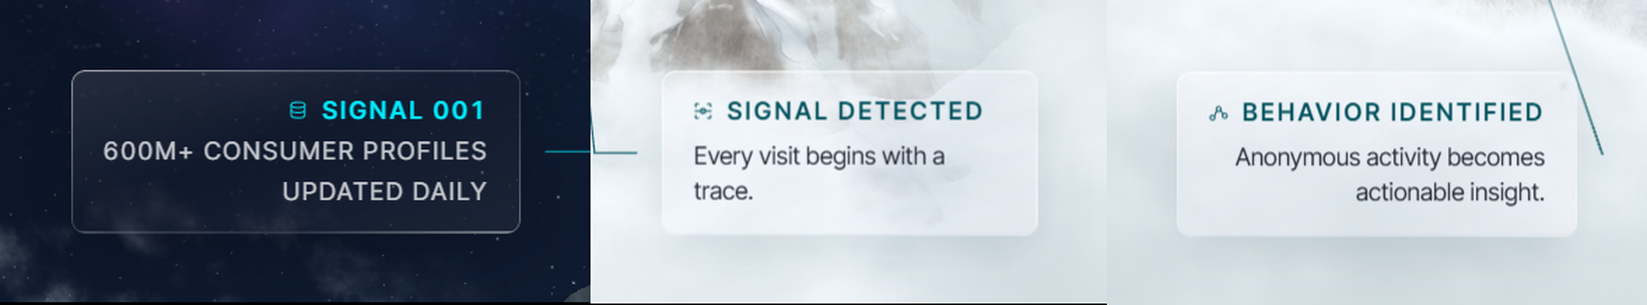
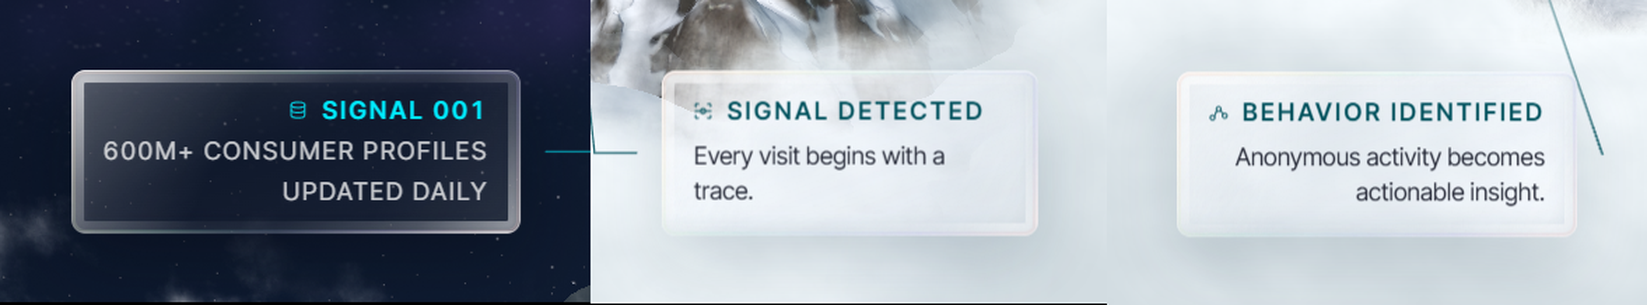
aan test 7: glass plates — thick lit bevel with chromatic fringe, inward lens refraction ×2.5, light angle follows the mouse

diff --git a/aan test 7/src/route.css b/aan test 7/src/route.css
@@ -92,21 +92,66 @@
 	background:
 		linear-gradient(160deg, rgba(255, 255, 255, 0.10), rgba(255, 255, 255, 0.02) 45%, rgba(255, 255, 255, 0.06)),
 		rgba(10, 16, 32, 0.34);
+	/* the slab's thickness: lit top-left edge, shaded bottom-right edge, a drop shadow under it */
 	box-shadow:
-		inset 0 1px 0 rgba(255, 255, 255, 0.22),
-		inset 0 -1px 0 rgba(255, 255, 255, 0.05),
-		0 10px 34px rgba(2, 6, 16, 0.28);
+		inset 0 1px 0 rgba(255, 255, 255, 0.30),
+		inset 2px 2px 10px rgba(255, 255, 255, 0.14),
+		inset -3px -4px 12px rgba(0, 10, 30, 0.28),
+		0 14px 40px rgba(2, 6, 16, 0.32);
 	-webkit-backdrop-filter: blur(6px) saturate(1.25);
 	backdrop-filter: blur(6px) saturate(1.25);
 	isolation: isolate;
 }
+/* the light: a specular sweep across the slab from the top-left (Figma Glass "light angle") */
+.callout__in--glass::after {
+	content: "";
+	position: absolute;
+	inset: 0;
+	border-radius: inherit;
+	background:
+		linear-gradient(calc(var(--glass-angle, 135deg) - 20deg), rgba(255, 255, 255, 0.22) 0%, rgba(255, 255, 255, 0.10) 18%, rgba(255, 255, 255, 0) 36%, rgba(255, 255, 255, 0) 70%, rgba(255, 255, 255, 0.07) 100%);
+	pointer-events: none;
+}
+.callout__in--glass > * { position: relative; z-index: 1; }
+/* the thick edge: a wide, soft ring lit from the top-left — the light bent through the bevel */
+.callout__in--glass .glass__bevel,
+.callout__in--glass .glass__fringe {
+	position: absolute;
+	inset: 0;
+	border-radius: inherit;
+	z-index: 0;
+	pointer-events: none;
+	-webkit-mask: linear-gradient(#000 0 0) content-box, linear-gradient(#000 0 0);
+	mask: linear-gradient(#000 0 0) content-box, linear-gradient(#000 0 0);
+	-webkit-mask-composite: xor;
+	mask-composite: exclude;
+}
+.callout__in--glass .glass__bevel {
+	padding: 7px;
+	background: linear-gradient(var(--glass-angle, 135deg),
+		rgba(255, 255, 255, 0.70) 0%, rgba(255, 255, 255, 0.28) 20%, rgba(255, 255, 255, 0.04) 46%,
+		rgba(255, 255, 255, 0.05) 60%, rgba(255, 255, 255, 0.22) 82%, rgba(255, 255, 255, 0.55) 100%);
+	filter: blur(2.5px);
+}
+/* dispersion on the bevel itself: a faint rainbow band just inside the rim */
+.callout__in--glass .glass__fringe {
+	padding: 2.5px;
+	background: linear-gradient(var(--glass-angle, 135deg),
+		rgba(255, 170, 140, 0.34) 0%, rgba(255, 225, 140, 0.26) 18%, rgba(150, 255, 200, 0.22) 38%,
+		rgba(130, 200, 255, 0.12) 55%, rgba(170, 150, 255, 0.24) 78%, rgba(255, 170, 150, 0.30) 100%);
+	filter: blur(0.8px);
+	mix-blend-mode: screen;
+	opacity: 0.8;
+}
+.callout--on-cloud .callout__in--glass .glass__bevel { opacity: 0.9; }
+.callout--on-cloud .callout__in--glass .glass__fringe { mix-blend-mode: normal; opacity: 0.5; }
 .callout__in--glass::before {
 	content: "";
 	position: absolute;
 	inset: 0;
 	border-radius: inherit;
 	padding: 1px;
-	background: linear-gradient(135deg, rgba(255, 255, 255, 0.55), rgba(255, 255, 255, 0.10) 35%, rgba(255, 255, 255, 0.04) 62%, rgba(255, 255, 255, 0.38));
+	background: linear-gradient(var(--glass-angle, 135deg), rgba(255, 255, 255, 0.85), rgba(255, 255, 255, 0.18) 30%, rgba(255, 255, 255, 0.06) 60%, rgba(255, 255, 255, 0.55));
 	-webkit-mask: linear-gradient(#000 0 0) content-box, linear-gradient(#000 0 0);
 	mask: linear-gradient(#000 0 0) content-box, linear-gradient(#000 0 0);
 	-webkit-mask-composite: xor;
@@ -119,9 +164,10 @@
 		linear-gradient(160deg, rgba(255, 255, 255, 0.34), rgba(255, 255, 255, 0.12) 50%, rgba(255, 255, 255, 0.22)),
 		rgba(220, 230, 245, 0.18);
 	box-shadow:
-		inset 0 1px 0 rgba(255, 255, 255, 0.6),
-		inset 0 -1px 0 rgba(0, 40, 60, 0.06),
-		0 10px 30px rgba(0, 30, 50, 0.12);
+		inset 0 1px 0 rgba(255, 255, 255, 0.7),
+		inset 2px 2px 10px rgba(255, 255, 255, 0.35),
+		inset -3px -4px 12px rgba(0, 40, 70, 0.14),
+		0 14px 36px rgba(0, 30, 50, 0.16);
 }
 
 .callout__k {

diff --git a/aan test 7/src/glass.js b/aan test 7/src/glass.js
@@ -6,8 +6,8 @@
  *
  * Refraction and dispersion are an SVG filter applied with `backdrop-filter: url(#…)`:
  * a canvas-drawn displacement map (R = x, G = y, 128 = none) of the plate's own size —
- * a bevel band along the rounded edge that pushes the sample point outward, strongest at
- * the edge, flat in the middle so the text sits on undistorted, merely frosted backdrop.
+ * a bevel band along the rounded edge that pulls the sample point inward (a convex lens),
+ * strongest at the edge, nearly flat in the middle so the text sits on a calm backdrop.
  * One filter per plate (its map is its size); `fit(w, h)` redraws it. Where url() is not
  * accepted in backdrop-filter (Safari, Firefox) the plain blur declaration before it wins.
  */
@@ -44,8 +44,9 @@ function sdRoundRect(px, py, hw, hh, r) {
  * @param {number} o.dispersion  0..1 — channel spread (R less, B more than G)
  * @param {number} o.frostPx     blur (px) after refraction
  * @param {number} [o.profile]   edge profile exponent: 1 linear, 2 lens-like (default 1.6)
+ * @param {number} [o.magnify]   0..0.2 — the slab is a weak convex lens: the interior samples toward the centre
  */
-export function createGlassFilter({ id, root, radius = 8, bevelPx = 22, refractPx = 28, dispersion = 0.18, frostPx = 1.2, profile = 1.6 }) {
+export function createGlassFilter({ id, root, radius = 8, bevelPx = 22, refractPx = 28, dispersion = 0.18, frostPx = 1.2, profile = 1.6, magnify = 0 }) {
 	const svg = ensureHost(root);
 	const filter = document.createElementNS(SVG_NS, 'filter');
 	filter.setAttribute('id', id);
@@ -109,19 +110,23 @@ export function createGlassFilter({ id, root, radius = 8, bevelPx = 22, refractP
 			for (let i = 0; i < W; i++) {
 				const px = (i + 0.5) / dpr - hw;
 				const d = sdRoundRect(px, py, hw, hh, r);
-				let dx = 0, dy = 0;
+				// map value ±0.5 ↔ ±refractPx of displacement (the filter's scale is 2·refractPx)
+				// the lens body: sample toward the centre → the backdrop is magnified through the slab
+				let dx = -px * magnify / (2 * refractPx), dy = -py * magnify / (2 * refractPx);
 				if (d < bevelPx) {
-					// outward normal from the SDF gradient; magnitude rises toward the edge with the lens profile
+					// the thick edge: outward normal from the SDF gradient, magnitude rising to the edge with the lens profile
 					const gx = (sdRoundRect(px + eps, py, hw, hh, r) - sdRoundRect(px - eps, py, hw, hh, r)) / (2 * eps);
 					const gy = (sdRoundRect(px, py + eps, hw, hh, r) - sdRoundRect(px, py - eps, hw, hh, r)) / (2 * eps);
 					const len = Math.hypot(gx, gy) || 1;
 					const t = Math.max(0, 1 - Math.max(d, 0) / bevelPx);
 					const mag = Math.pow(t, profile) * 0.5;
-					dx = -gx / len * mag; dy = -gy / len * mag;   // −gradient = outward
+					// INWARD (+gradient): the edge shows the backdrop from further inside, like a convex lens —
+				// sampling outward would read past the element's clipped backdrop and go transparent
+				dx += gx / len * mag; dy += gy / len * mag;
 				}
 				const o = (j * W + i) * 4;
-				data[o] = Math.round((0.5 + dx) * 255);
-				data[o + 1] = Math.round((0.5 + dy) * 255);
+				data[o] = Math.round(Math.min(1, Math.max(0, 0.5 + dx)) * 255);
+				data[o + 1] = Math.round(Math.min(1, Math.max(0, 0.5 + dy)) * 255);
 				data[o + 2] = 0;
 				data[o + 3] = 255;
 			}

diff --git a/aan test 7/src/descent-config.js b/aan test 7/src/descent-config.js
@@ -167,11 +167,12 @@ export const MOUNTAIN_DESCENT = {
 			glass: {
 				enabled: true,
 				radius: 8,            // px — keep equal to route.css .callout__in border-radius
-				bevelPx: 22,          // width of the refracting edge band
-				refractPx: 26,        // displacement at the very edge
-				dispersion: 0.2,      // chromatic spread of the refraction (the rainbow fringe)
-				frostPx: 1.4,         // blur after refraction
-				profile: 1.7,         // 1 = linear bevel, 2 = rounder lens edge
+				bevelPx: 34,          // width of the refracting edge band — a thick slab
+				refractPx: 64,        // displacement at the very edge
+				dispersion: 0.32,     // chromatic spread of the refraction (the rainbow fringe)
+				frostPx: 0.9,         // blur after refraction — light, so the bending stays crisp
+				profile: 2.2,         // 1 = linear bevel, 2+ = rounder lens edge
+				magnify: 0.07,        // the interior is a weak convex lens (the backdrop is slightly enlarged through the slab)
 			},
 		},
 	},

diff --git a/aan test 7/src/descent.js b/aan test 7/src/descent.js
@@ -478,7 +478,15 @@ export function createDescent({ scene, camera, mountain, pivot, resolution, labe
 		// the glass plate: its refraction filter is sized to the plate in placeCallout (measure)
 		const gc = cfg.style.callout?.glass;
 		const glass = gc?.enabled ? createGlassFilter({ id: `glass-${stop.id}`, root: labelRoot, ...gc }) : null;
-		if (glass) plane.classList.add('callout__in--glass');
+		if (glass) {
+			plane.classList.add('callout__in--glass');
+			// the slab's lit bevel and its chromatic fringe (route.css); the crisp rim and the light sweep are pseudo-elements
+			for (const cls of ['glass__bevel', 'glass__fringe']) {
+				const i = document.createElement('i');
+				i.className = cls; i.setAttribute('aria-hidden', 'true');
+				plane.appendChild(i);
+			}
+		}
 		const title = document.createElement('p');
 		title.className = 'callout__k';
 		title.innerHTML = `<svg class="ico" viewBox="0 0 12 12" aria-hidden="true" focusable="false">${ICONS[stop.icon] ?? ''}</svg>`;

diff --git a/aan test 7/src/mountain.js b/aan test 7/src/mountain.js
@@ -806,6 +806,9 @@ function tick() {
 	abyss.update(transP, descentP);
 	cloudMaterial.uniforms.uDusk.value = abyss.state.dusk;
 	routeLabels.style.opacity = abyss.state.labelFade;   // the callouts belong to the mountain and dissolve with it
+	// the glass plates' light follows the mouse (route.css reads --glass-angle): the sweep and the lit bevel turn with it
+	const glassAngle = 135 - lerpedMouse.x * 40 + lerpedMouse.y * 25;
+	if (Math.abs(glassAngle - (routeLabels.__glassAngle ?? 0)) > 0.25) { routeLabels.__glassAngle = glassAngle; routeLabels.style.setProperty('--glass-angle', `${glassAngle.toFixed(1)}deg`); }
 	heroText.setFade(abyss.state.heroTextFade);
 	for (const l of cloudFloor.layers) l.material.uniforms.uDusk.value = abyss.state.seaDusk;
 	updateCamera(dt);
